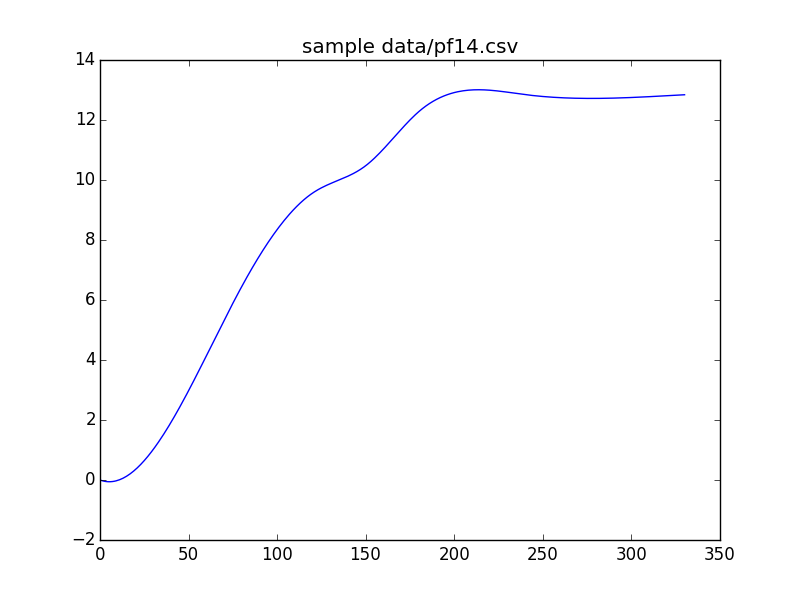
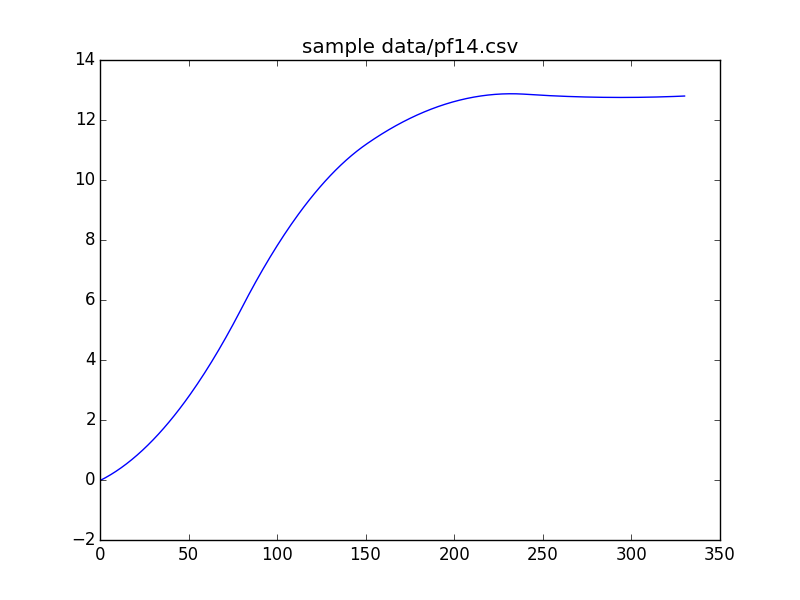
added weighting for smoother curve

diff --git a/Spline/spline_fitting.py b/Spline/spline_fitting.py
@@ -17,9 +17,18 @@ def plot(data_file):
 		x_points.append(row[0])
 		y_points.append(row[1])
 	
+	#Testing, weight is based off distance from mean
+	avg = 0
+	wt = []
+	for i in y_points:
+		avg += float(i)
+	avg /= len(y_points)
+	for i in y_points:
+		wt.append(abs(float(i) - avg))
+		
 	#Spline Function
 	def f(x):
-		tck = interpolate.splrep(x_points, y_points,w=None,k=2)
+		tck = interpolate.splrep(x_points, y_points,w=wt,k=2)
 		return interpolate.splev(x, tck)
 
 	#The set of data to be replotted
